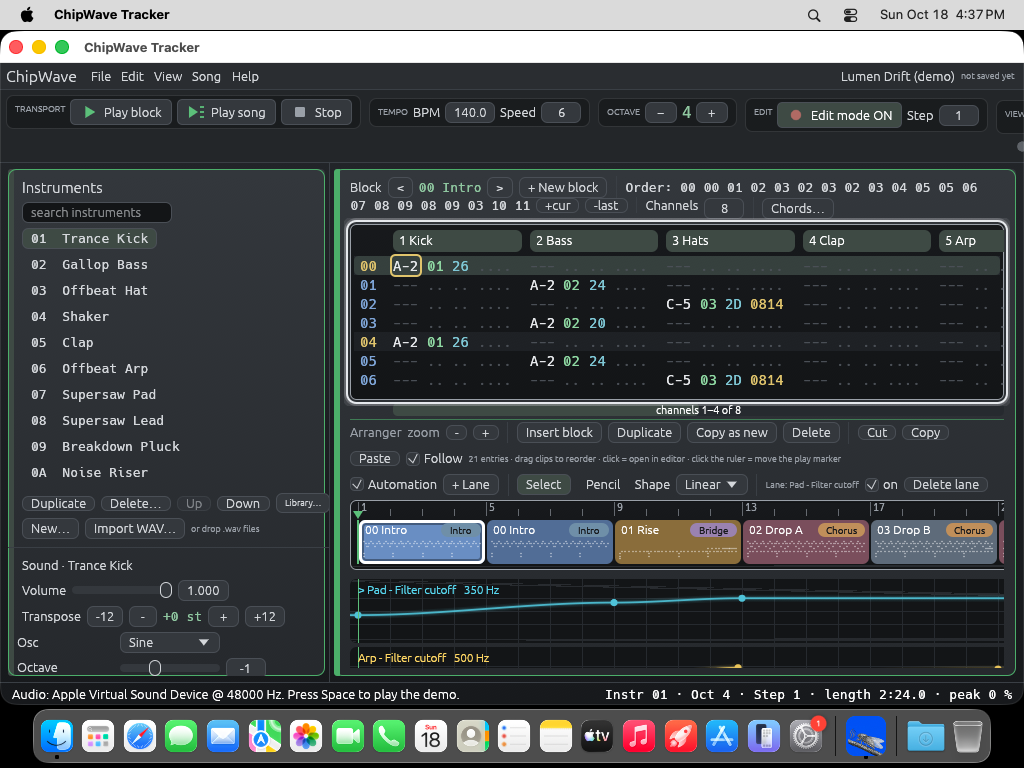
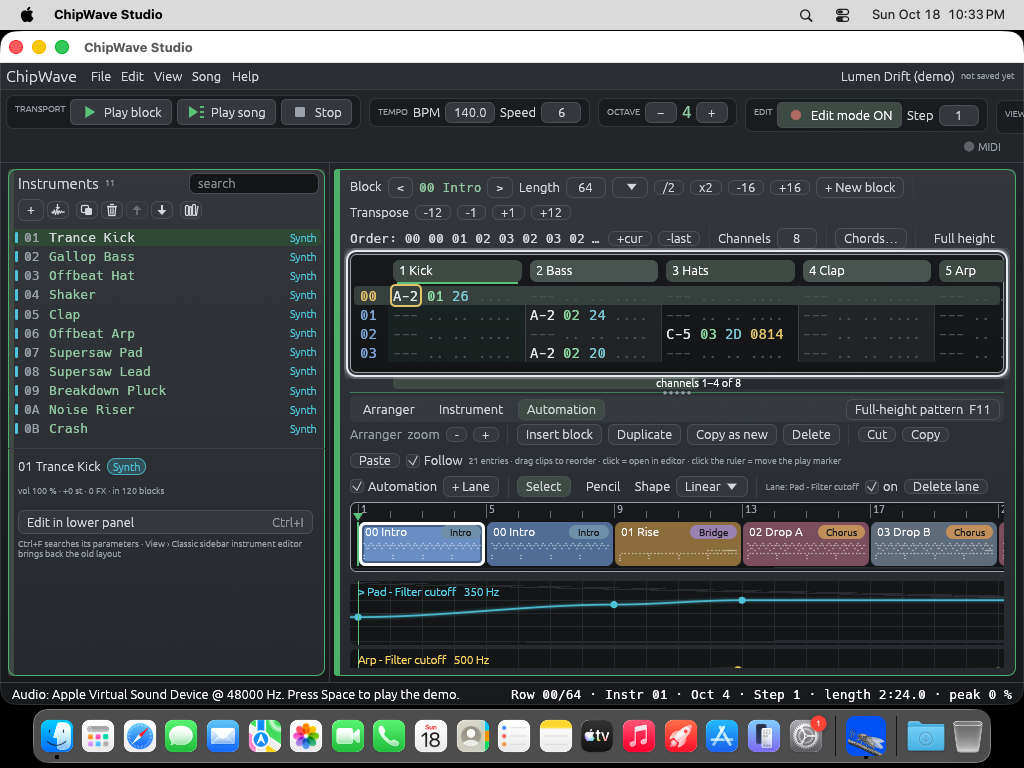
docs: macOS screenshot from the 0.2.4.0 build (menu bar says ChipWave Studio); RENAME.md: rename, website and release done

diff --git a/docs/RENAME.md b/docs/RENAME.md
@@ -24,8 +24,7 @@ and the transpose buttons (2b3ad3f).
   numerically part by part (`0.2.4.0` > `0.2.3.19`), semver agrees (`0.2.4` > `0.2.3`), and a unit
   test covers 0.2.3.19 → 0.2.4.0.
 - **Never create a new repo named ChipWaveTracker** (it would break GitHub's redirects).
-- Until the repo is renamed, links in this repo to `github.com/postmanpat-303/ChipWaveStudio` and
-  the new website address do not resolve yet; the app's update check falls back to the old address.
+- The app's update check still falls back to the old address on a 404 (harmless now that the repo is renamed).
 - **Git history is not rewritten.** Old release notes, tags and the captured
   `src/update_fixture_v0.2.3.4.json` (a verbatim GitHub API reply) keep the old name: they are history.
 
@@ -89,11 +88,11 @@ The dmg volume is "ChipWave Studio <ver>".
 4. Docs: README, docs/*.md, CHANGELOG 0.2.4.0, dist/README.txt, credits generator, Cargo.toml.
 5. Verify: cargo test, clippy (Linux + Windows), cargo deny, Wine self-test, Wine upgrade from the
    v0.2.3.19 installer, check-ico, screenshots (About, title).
-6. Push to main. **On hold** (Wave Hub): `gh repo rename ChipWaveStudio`; update the remote, description, homepage, topics;
+6. Push to main, then `gh repo rename ChipWaveStudio` (done 18 Oct 2026, after Wave Hub 0.2.5, which follows the redirect); update the remote, description, homepage, topics;
    check the redirects.
-7. **On hold:** website on gh-pages at the new address (canonical, og:url, og:image, sitemap, robots, JSON-LD,
+7. Done: website on gh-pages at the new address (canonical, og:url, og:image, sitemap, robots, JSON-LD,
    "formerly ChipWave Tracker").
-8. **On hold:** release v0.2.4.0 (Windows + Mac, SHA256SUMS.txt), Latest.
+8. Done: release v0.2.4.0 (Windows + Mac, SHA256SUMS.txt), Latest.
 
 ## Known limits
 

diff --git a/docs/MACOS.md b/docs/MACOS.md
@@ -4,7 +4,7 @@ ChipWave Studio has a **universal macOS build**: one `ChipWave.app` that runs na
 
 > **Status:** the Mac build is made by GitHub Actions and checked there automatically (both CPU halves start, render audio and pass the self-test). Nobody has tried it on a real Mac yet, so please report anything odd in an [issue](https://github.com/postmanpat-303/ChipWaveStudio/issues) and include your macOS version and chip. The first release with Mac files is **v0.2.3.14**.
 
-<p align="center"><img src="screenshots/macos-launch.png" alt="ChipWave 0.2.3.15 running on macOS (GitHub Actions macos-latest runner, Apple Silicon)" width="720"><br><sub>The universal build running on a GitHub Actions macOS machine (Apple Silicon, CoreAudio "Apple Virtual Sound Device"), captured by the workflow.</sub></p>
+<p align="center"><img src="screenshots/macos-launch.png" alt="ChipWave Studio 0.2.4.0 running on macOS (GitHub Actions macos-latest runner, Apple Silicon)" width="720"><br><sub>The universal build running on a GitHub Actions macOS machine (Apple Silicon, CoreAudio "Apple Virtual Sound Device"), captured by the workflow.</sub></p>
 
 ## Download
 
